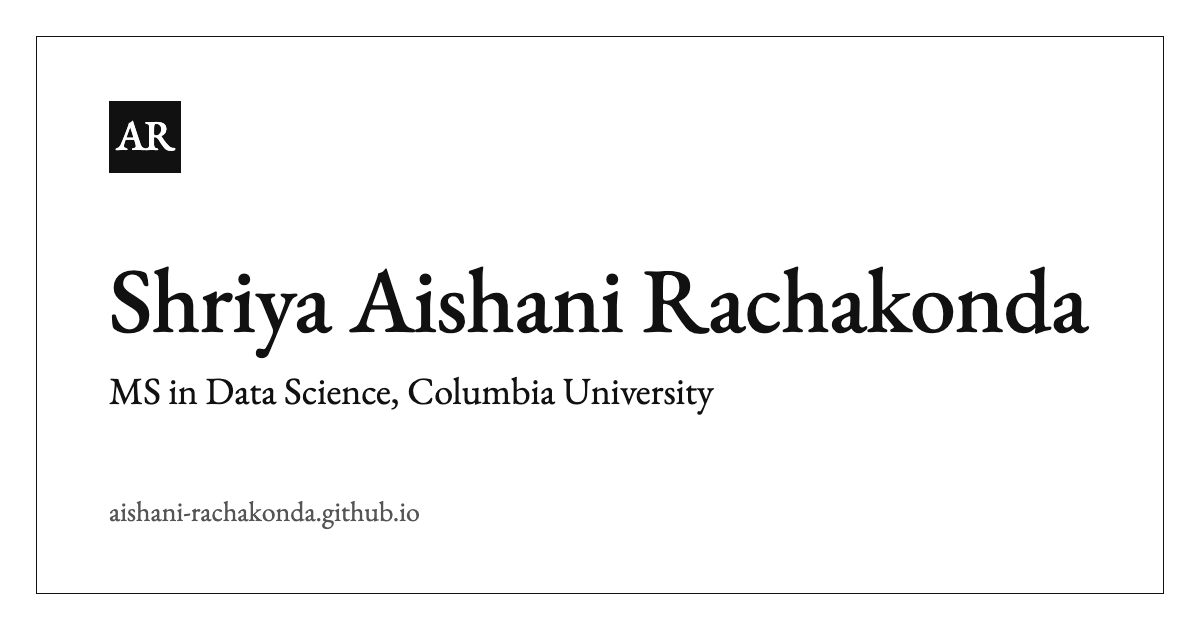
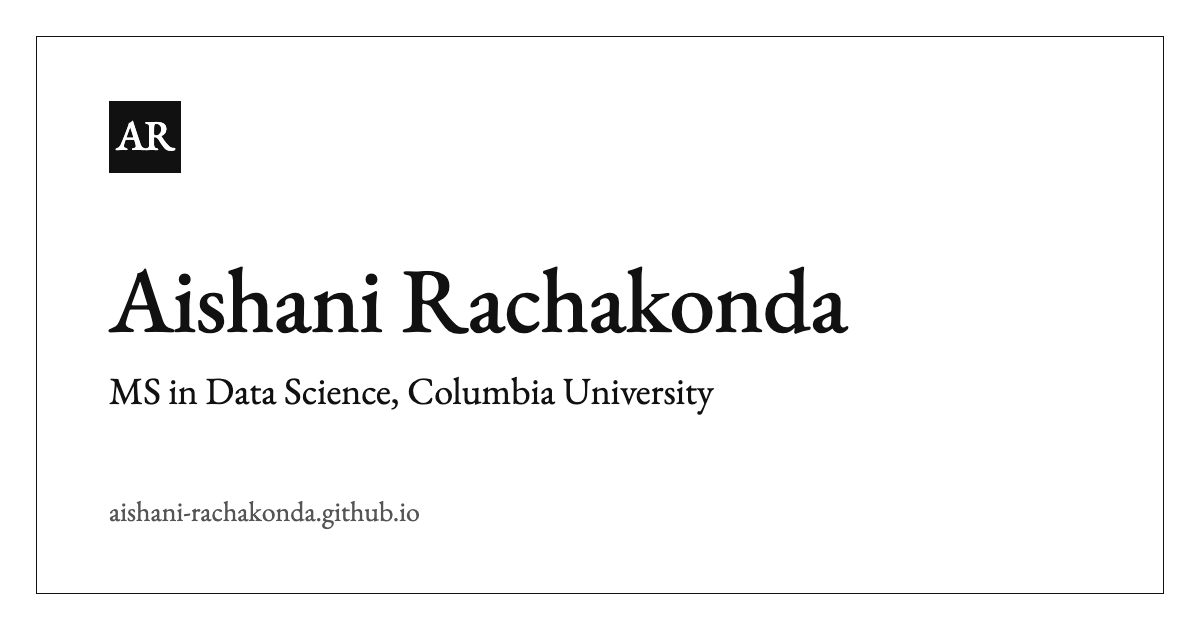
Use Aishani Rachakonda as the site name

Changed region(s): [[0.0925, 0.4222, 0.925, 0.573]]

diff --git a/index.html b/index.html
@@ -9,14 +9,14 @@
   <link rel="icon" type="image/png" sizes="192x192" href="assets/img/brand/icon-192.png">
   <link rel="apple-touch-icon" href="assets/img/brand/apple-touch-icon.png">
   <meta property="og:type" content="website">
-  <meta property="og:site_name" content="Shriya Aishani Rachakonda">
-  <meta property="og:title" content="Shriya Aishani Rachakonda">
+  <meta property="og:site_name" content="Aishani Rachakonda">
+  <meta property="og:title" content="Aishani Rachakonda">
   <meta property="og:description" content="Master&rsquo;s student in Data Science at Columbia University, building LLM-powered and agentic AI systems that are reliable, efficient, and useful in real-world settings.">
   <meta property="og:url" content="https://aishani-rachakonda.github.io/">
   <meta property="og:image" content="https://aishani-rachakonda.github.io/assets/img/brand/share.png">
   <meta property="og:image:width" content="1200">
   <meta property="og:image:height" content="630">
-  <meta property="og:image:alt" content="Shriya Aishani Rachakonda, MS in Data Science, Columbia University">
+  <meta property="og:image:alt" content="Aishani Rachakonda, MS in Data Science, Columbia University">
   <meta name="twitter:card" content="summary_large_image">
   <link rel="preconnect" href="https://fonts.googleapis.com">
   <link rel="preconnect" href="https://fonts.gstatic.com" crossorigin>
@@ -42,7 +42,7 @@
     <!-- ============ ABOUT ============ -->
     <section id="about" class="about">
       <div class="about-text">
-        <h1>Shriya Aishani Rachakonda</h1>
+        <h1>Aishani Rachakonda</h1>
 
         <p>
           Hi! I&rsquo;m Aishani, a master&rsquo;s student in Data Science at

diff --git a/projects/skyguardian.html b/projects/skyguardian.html
@@ -9,14 +9,14 @@
   <link rel="icon" type="image/png" sizes="192x192" href="../assets/img/brand/icon-192.png">
   <link rel="apple-touch-icon" href="../assets/img/brand/apple-touch-icon.png">
   <meta property="og:type" content="website">
-  <meta property="og:site_name" content="Shriya Aishani Rachakonda">
-  <meta property="og:title" content="SkyGuardian · Shriya Aishani Rachakonda">
+  <meta property="og:site_name" content="Aishani Rachakonda">
+  <meta property="og:title" content="SkyGuardian · Aishani Rachakonda">
   <meta property="og:description" content="Real-time survivor detection and scene briefings from drone footage for disaster response teams.">
   <meta property="og:url" content="https://aishani-rachakonda.github.io/projects/skyguardian.html">
   <meta property="og:image" content="https://aishani-rachakonda.github.io/assets/img/brand/share.png">
   <meta property="og:image:width" content="1200">
   <meta property="og:image:height" content="630">
-  <meta property="og:image:alt" content="Shriya Aishani Rachakonda, MS in Data Science, Columbia University">
+  <meta property="og:image:alt" content="Aishani Rachakonda, MS in Data Science, Columbia University">
   <meta name="twitter:card" content="summary_large_image">
   <link rel="preconnect" href="https://fonts.googleapis.com">
   <link rel="preconnect" href="https://fonts.gstatic.com" crossorigin>

diff --git a/projects/penny.html b/projects/penny.html
@@ -9,14 +9,14 @@
   <link rel="icon" type="image/png" sizes="192x192" href="../assets/img/brand/icon-192.png">
   <link rel="apple-touch-icon" href="../assets/img/brand/apple-touch-icon.png">
   <meta property="og:type" content="website">
-  <meta property="og:site_name" content="Shriya Aishani Rachakonda">
-  <meta property="og:title" content="Penny · Shriya Aishani Rachakonda">
+  <meta property="og:site_name" content="Aishani Rachakonda">
+  <meta property="og:title" content="Penny · Aishani Rachakonda">
   <meta property="og:description" content="A personal finance agent that plans your month with you and tells you what you can afford right now.">
   <meta property="og:url" content="https://aishani-rachakonda.github.io/projects/penny.html">
   <meta property="og:image" content="https://aishani-rachakonda.github.io/assets/img/brand/share.png">
   <meta property="og:image:width" content="1200">
   <meta property="og:image:height" content="630">
-  <meta property="og:image:alt" content="Shriya Aishani Rachakonda, MS in Data Science, Columbia University">
+  <meta property="og:image:alt" content="Aishani Rachakonda, MS in Data Science, Columbia University">
   <meta name="twitter:card" content="summary_large_image">
   <link rel="preconnect" href="https://fonts.googleapis.com">
   <link rel="preconnect" href="https://fonts.gstatic.com" crossorigin>
